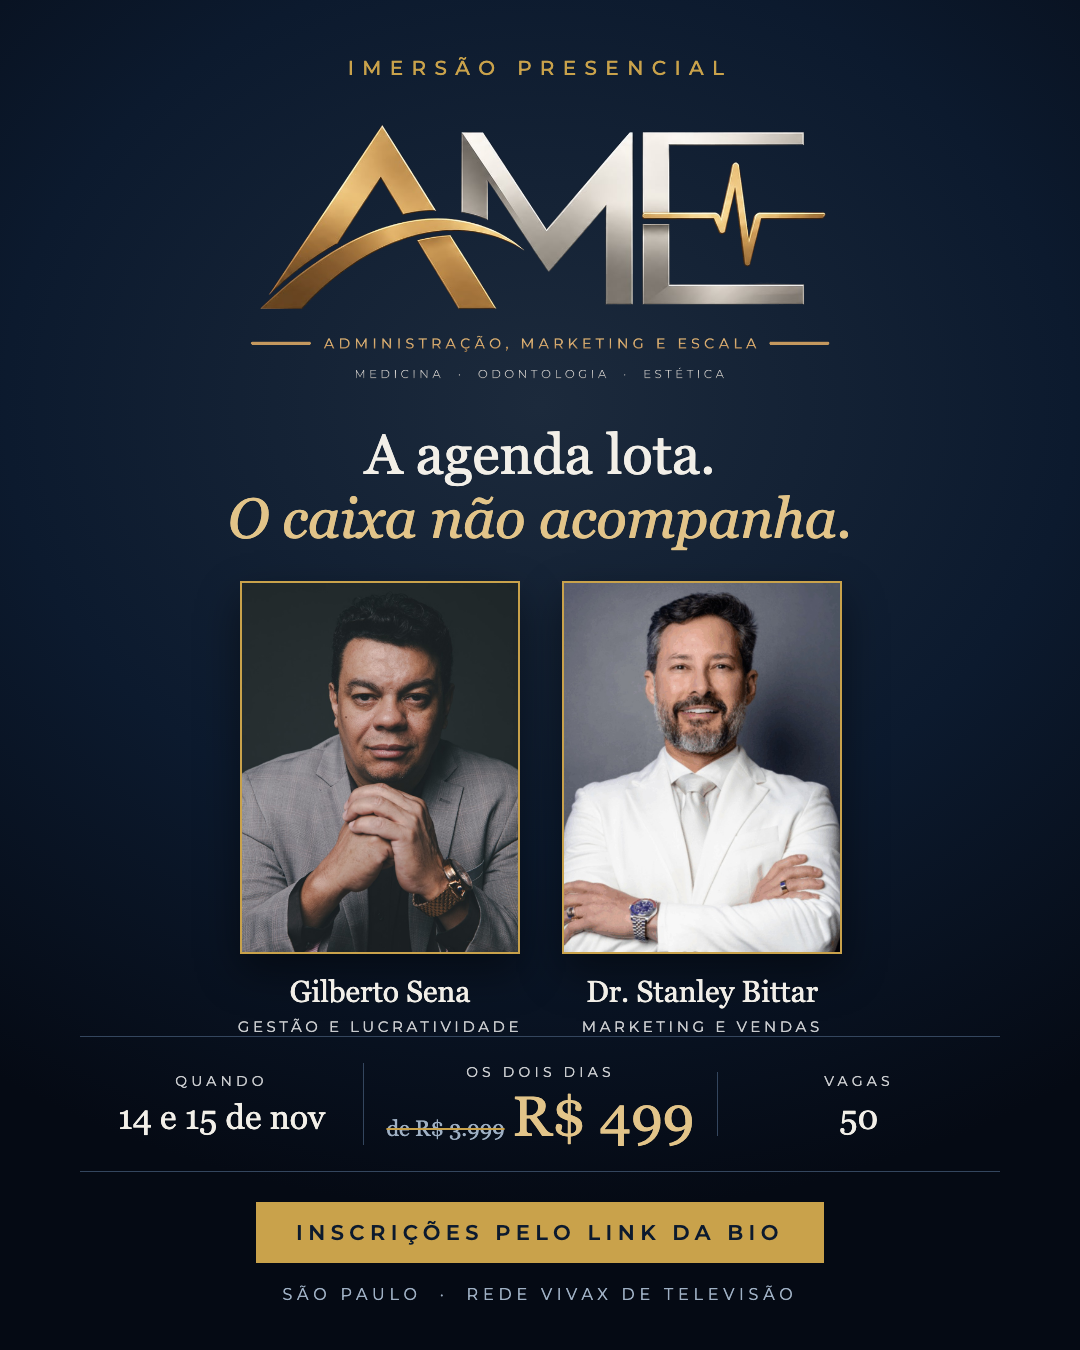
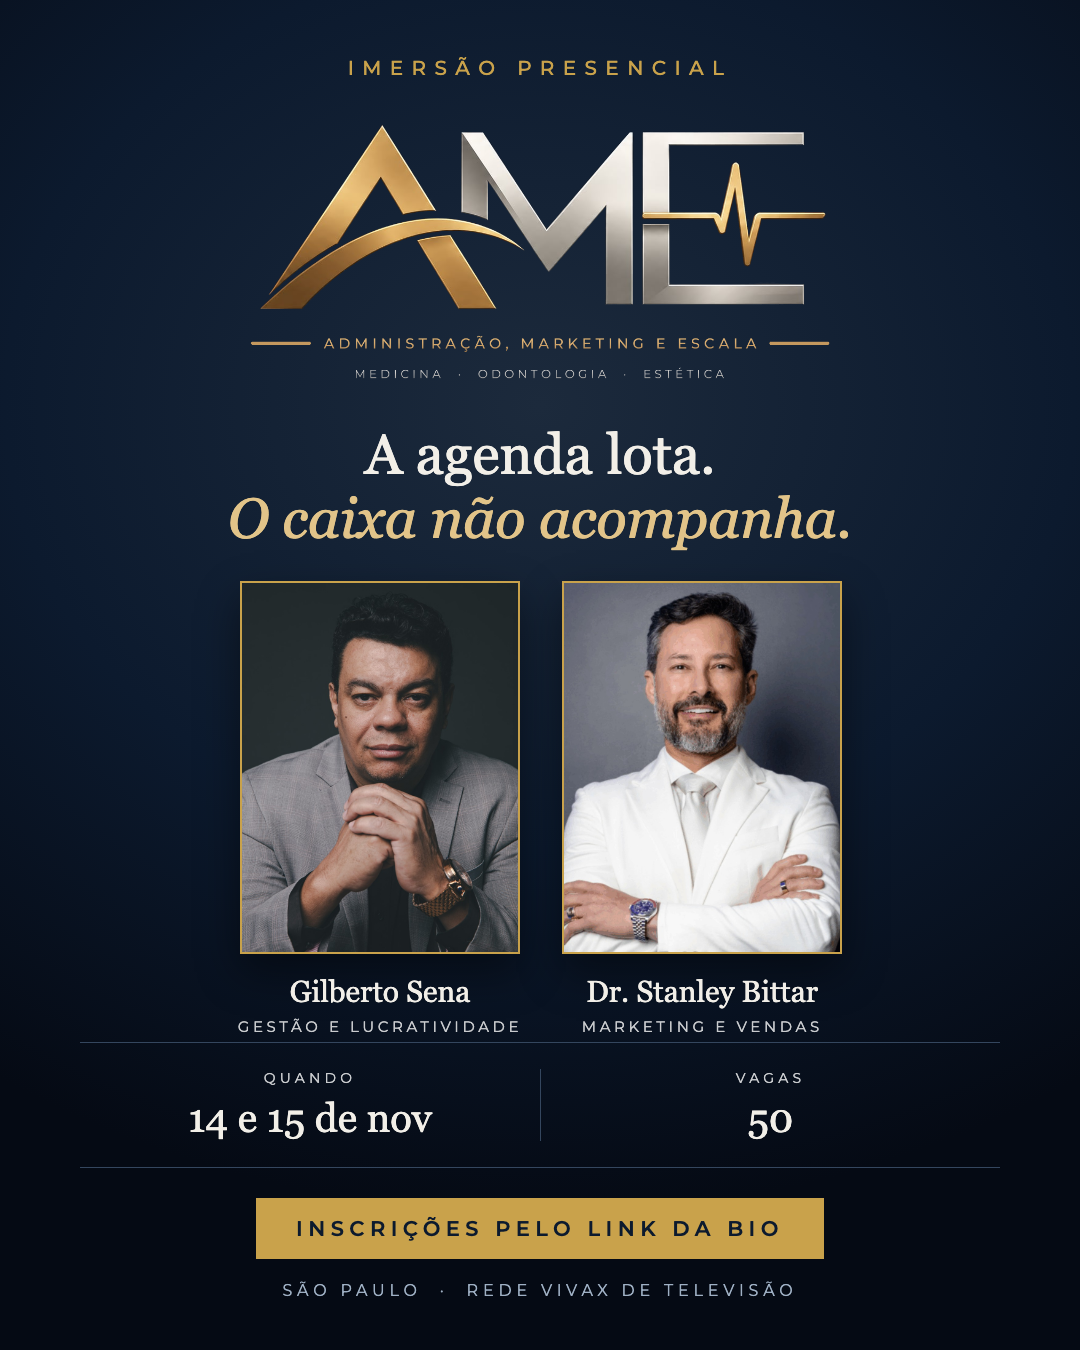
Imersao AME: preco fora das artes de divulgacao

diff --git a/sb/AME/divulgacao/divulgacao.html b/sb/AME/divulgacao/divulgacao.html
@@ -25,12 +25,12 @@
   .p img{width:280px;height:373px;object-fit:cover;border:2px solid var(--ouro);box-shadow:0 18px 40px rgba(0,0,0,.45)}
   .p b{font-family:Georgia,serif;font-weight:400;font-size:30px;margin-top:20px}
   .p span{margin-top:8px;font-size:15px;letter-spacing:.24em;text-transform:uppercase;color:var(--prata)}
-  .info{margin-top:auto;width:100%;display:grid;grid-template-columns:1fr 1.25fr 1fr;align-items:center;
+  .info{margin-top:auto;width:100%;display:grid;grid-template-columns:1fr 1fr;align-items:center;
         border-top:1px solid #34465E;border-bottom:1px solid #34465E;padding:26px 0}
   .info>div{text-align:center}
   .info>div+div{border-left:1px solid #34465E}
   .rot{display:block;font-size:14px;letter-spacing:.3em;text-transform:uppercase;color:var(--prata);margin-bottom:8px}
-  .val{font-family:Georgia,serif;font-size:34px}
+  .val{font-family:Georgia,serif;font-size:40px}
   .de{font-size:22px;color:#9FB0C4;text-decoration:line-through;text-decoration-color:var(--ouro);margin-right:8px;font-family:Georgia,serif}
   .preco{font-family:Georgia,serif;font-size:56px;color:var(--ouro-claro);line-height:1}
   .cta{margin-top:30px;background:var(--ouro);color:#0C1A2E;font-size:21px;font-weight:600;
@@ -66,7 +66,6 @@
   </div>
   <div class="info">
     <div><span class="rot">Quando</span><span class="val">14 e 15 de nov</span></div>
-    <div><span class="rot">Os dois dias</span><span class="de">de R$ 3.999</span><span class="preco">R$ 499</span></div>
     <div><span class="rot">Vagas</span><span class="val">50</span></div>
   </div>
   <div class="cta"><span class="f">Inscrições pelo link da bio</span><span class="s">Inscrições pelo link</span></div>

diff --git a/_memoria/onde-paramos.md b/_memoria/onde-paramos.md
@@ -21,7 +21,7 @@ Televisão**, **"de R$ 3.999 por R$ 499" pelos dois dias** (decidido por ele em 
 15/11 (feriado) confirmado. **A oferta do fim do dia 2 está no doc** (Choque de Ordem e Caixa e Escala Blindada; o
 Club SB fica fora). **Ele definiu (21/out):** Choque de Ordem e Caixa R$ 35.000 em 6x no cartão ou R$ 30.000 à vista
 no pix, **12 vagas**; Escala Blindada R$ 60.000 em 12x no cartão ou R$ 50.000 à vista no pix, **8 vagas** (20 no máximo).
-**Abatimento dos R$ 499 para quem fechar até as 23h de 15/11** (decidido por ele em 21/out). **Falta:** contrato do cliente pelo advogado antes do evento, regras de publicidade do CFM/CFO, e o **link de pagamento** dos R$ 499 (decidido em 26/out que a inscrição é por link; a arte já diz "inscrições pelo link da bio", falta o link em si pra bio, o story e o WhatsApp). ⚠ **Não chamar o Stanley de
+**Abatimento dos R$ 499 para quem fechar até as 23h de 15/11** (decidido por ele em 21/out). **Falta:** contrato do cliente pelo advogado antes do evento, regras de publicidade do CFM/CFO, e o **link de pagamento** dos R$ 499 (decidido em 26/out que a inscrição é por link; a arte já diz "inscrições pelo link da bio"; **preço fora dos posts**, decisão dele em 27/out: a arte mostra só data, vagas e o link, falta o link em si pra bio, o story e o WhatsApp). ⚠ **Não chamar o Stanley de
 "cirurgião plástico" no material:** a falta de registro na especialidade foi um dos motivos do processo no CRM-AC
 (ver `sb/material/verificacao-stanley-bittar-2026-10-13.md`); usar "médico estrategista", como na marca.
 
